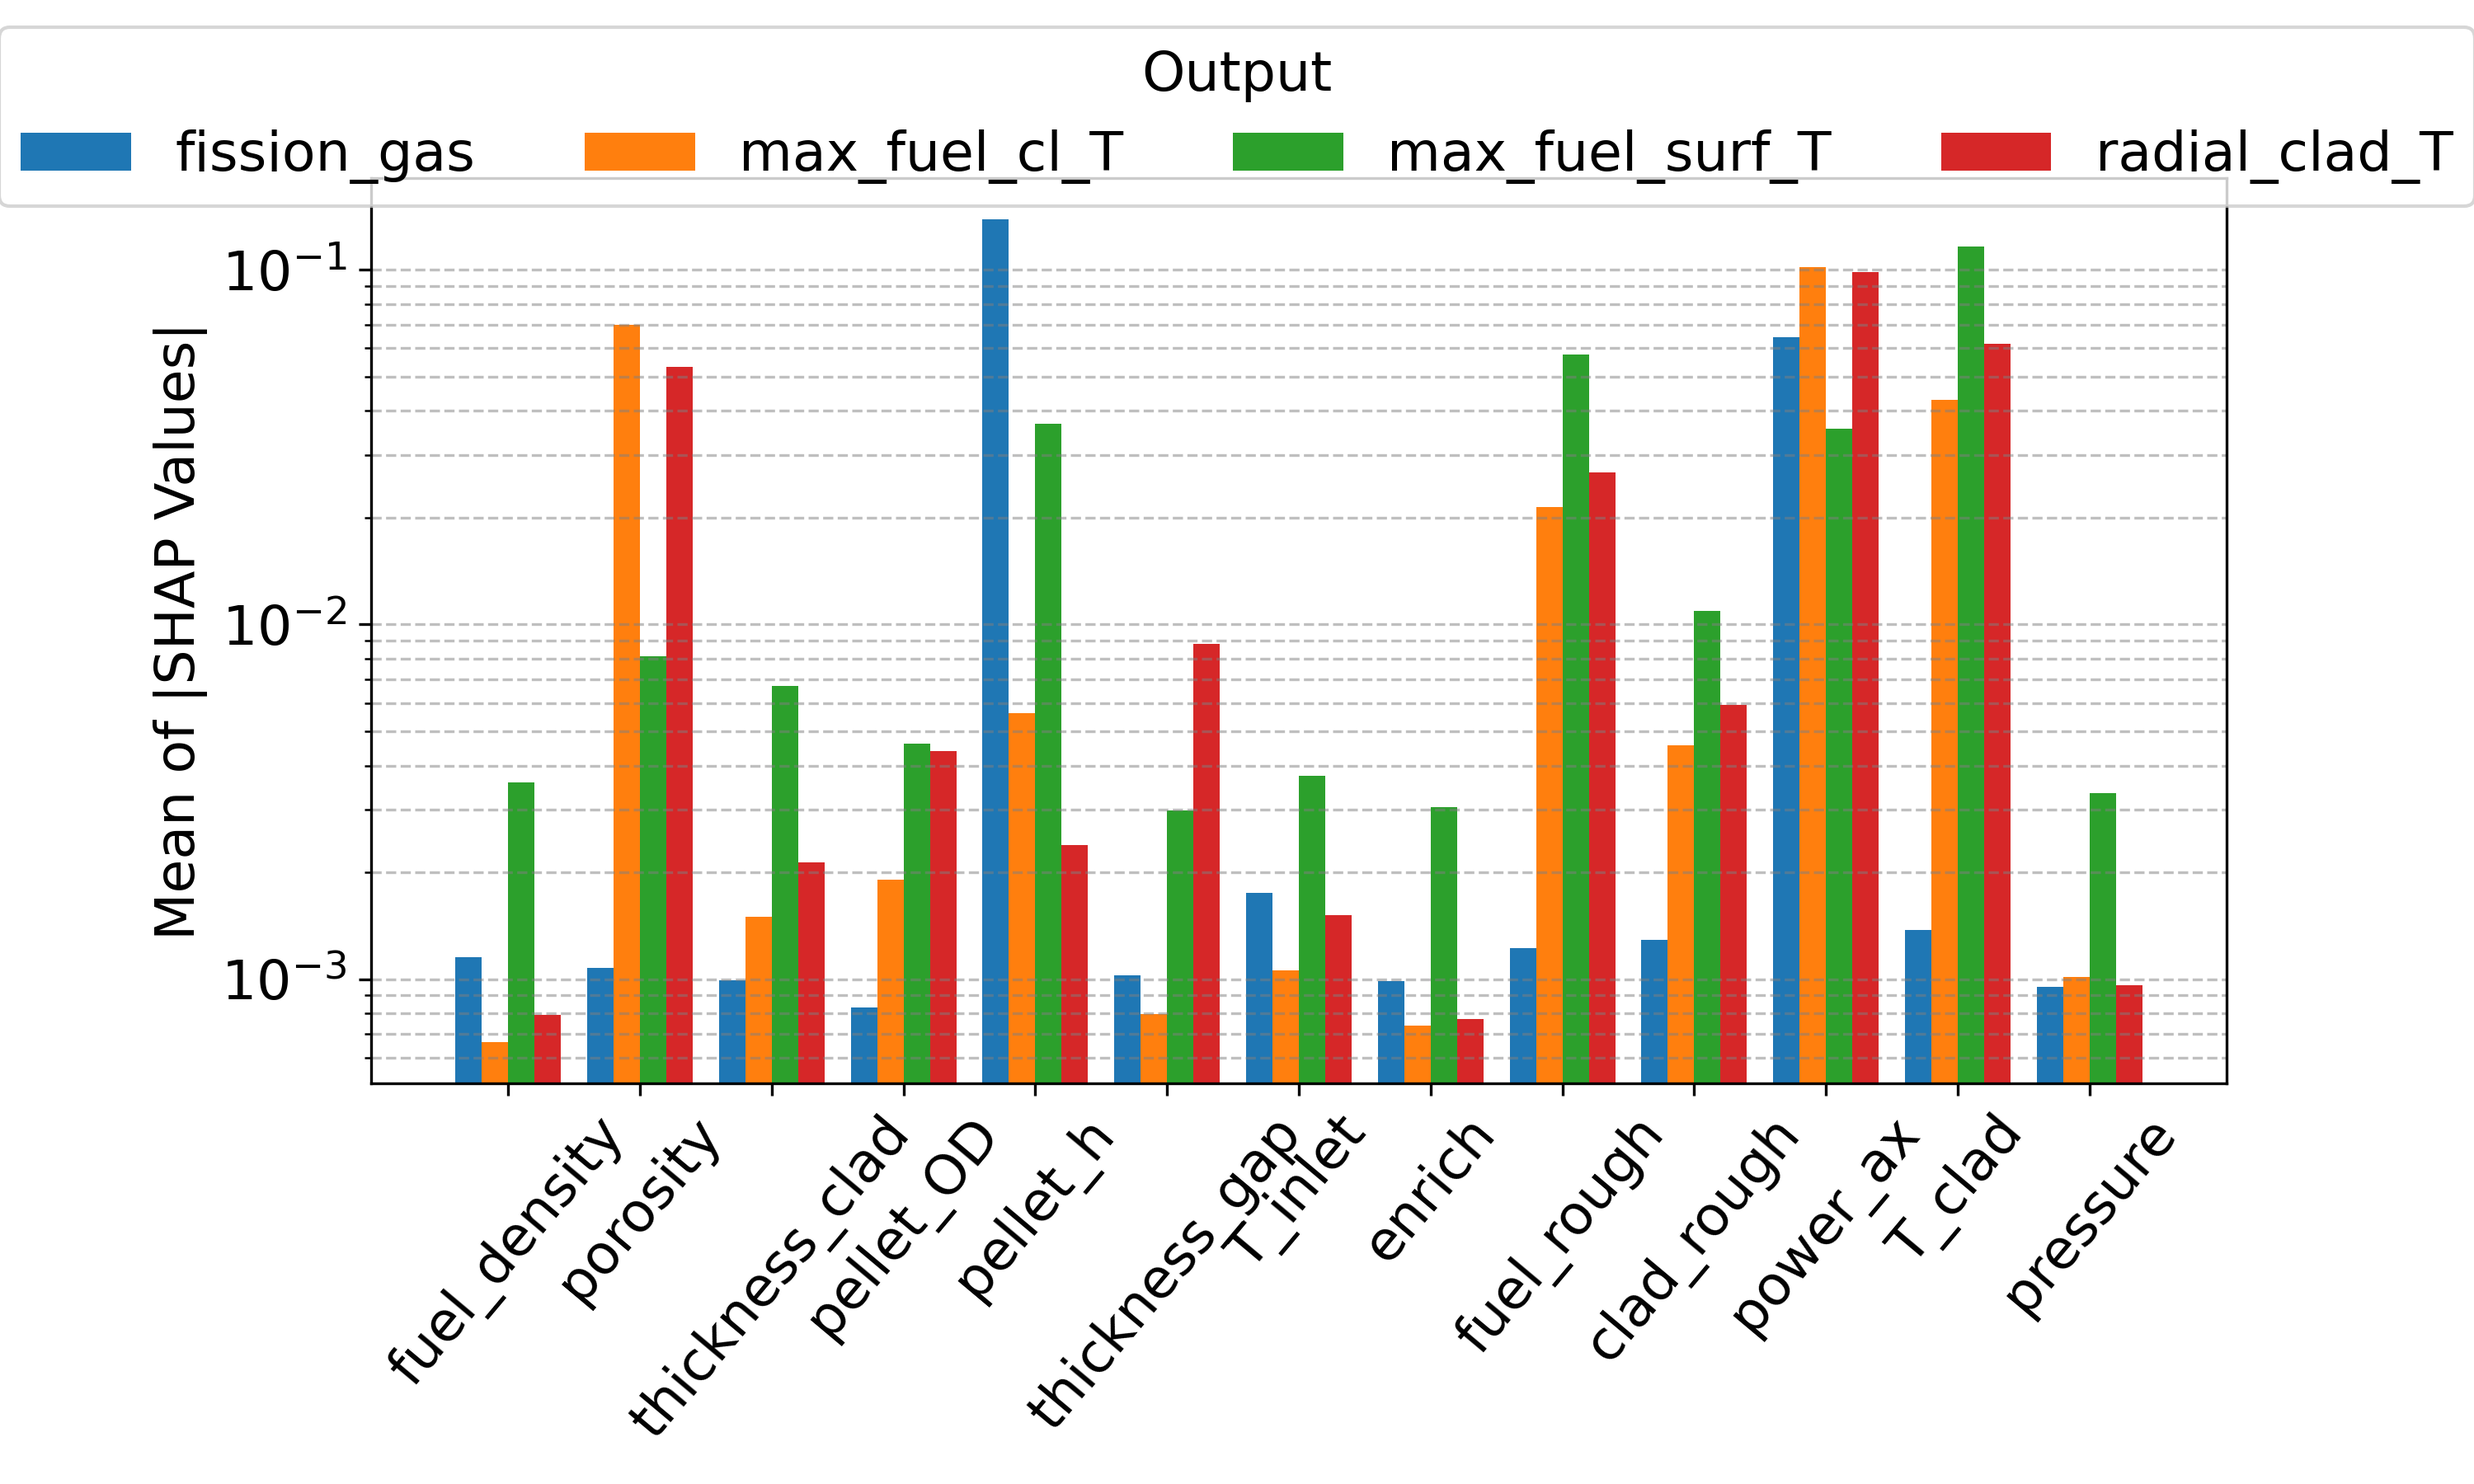
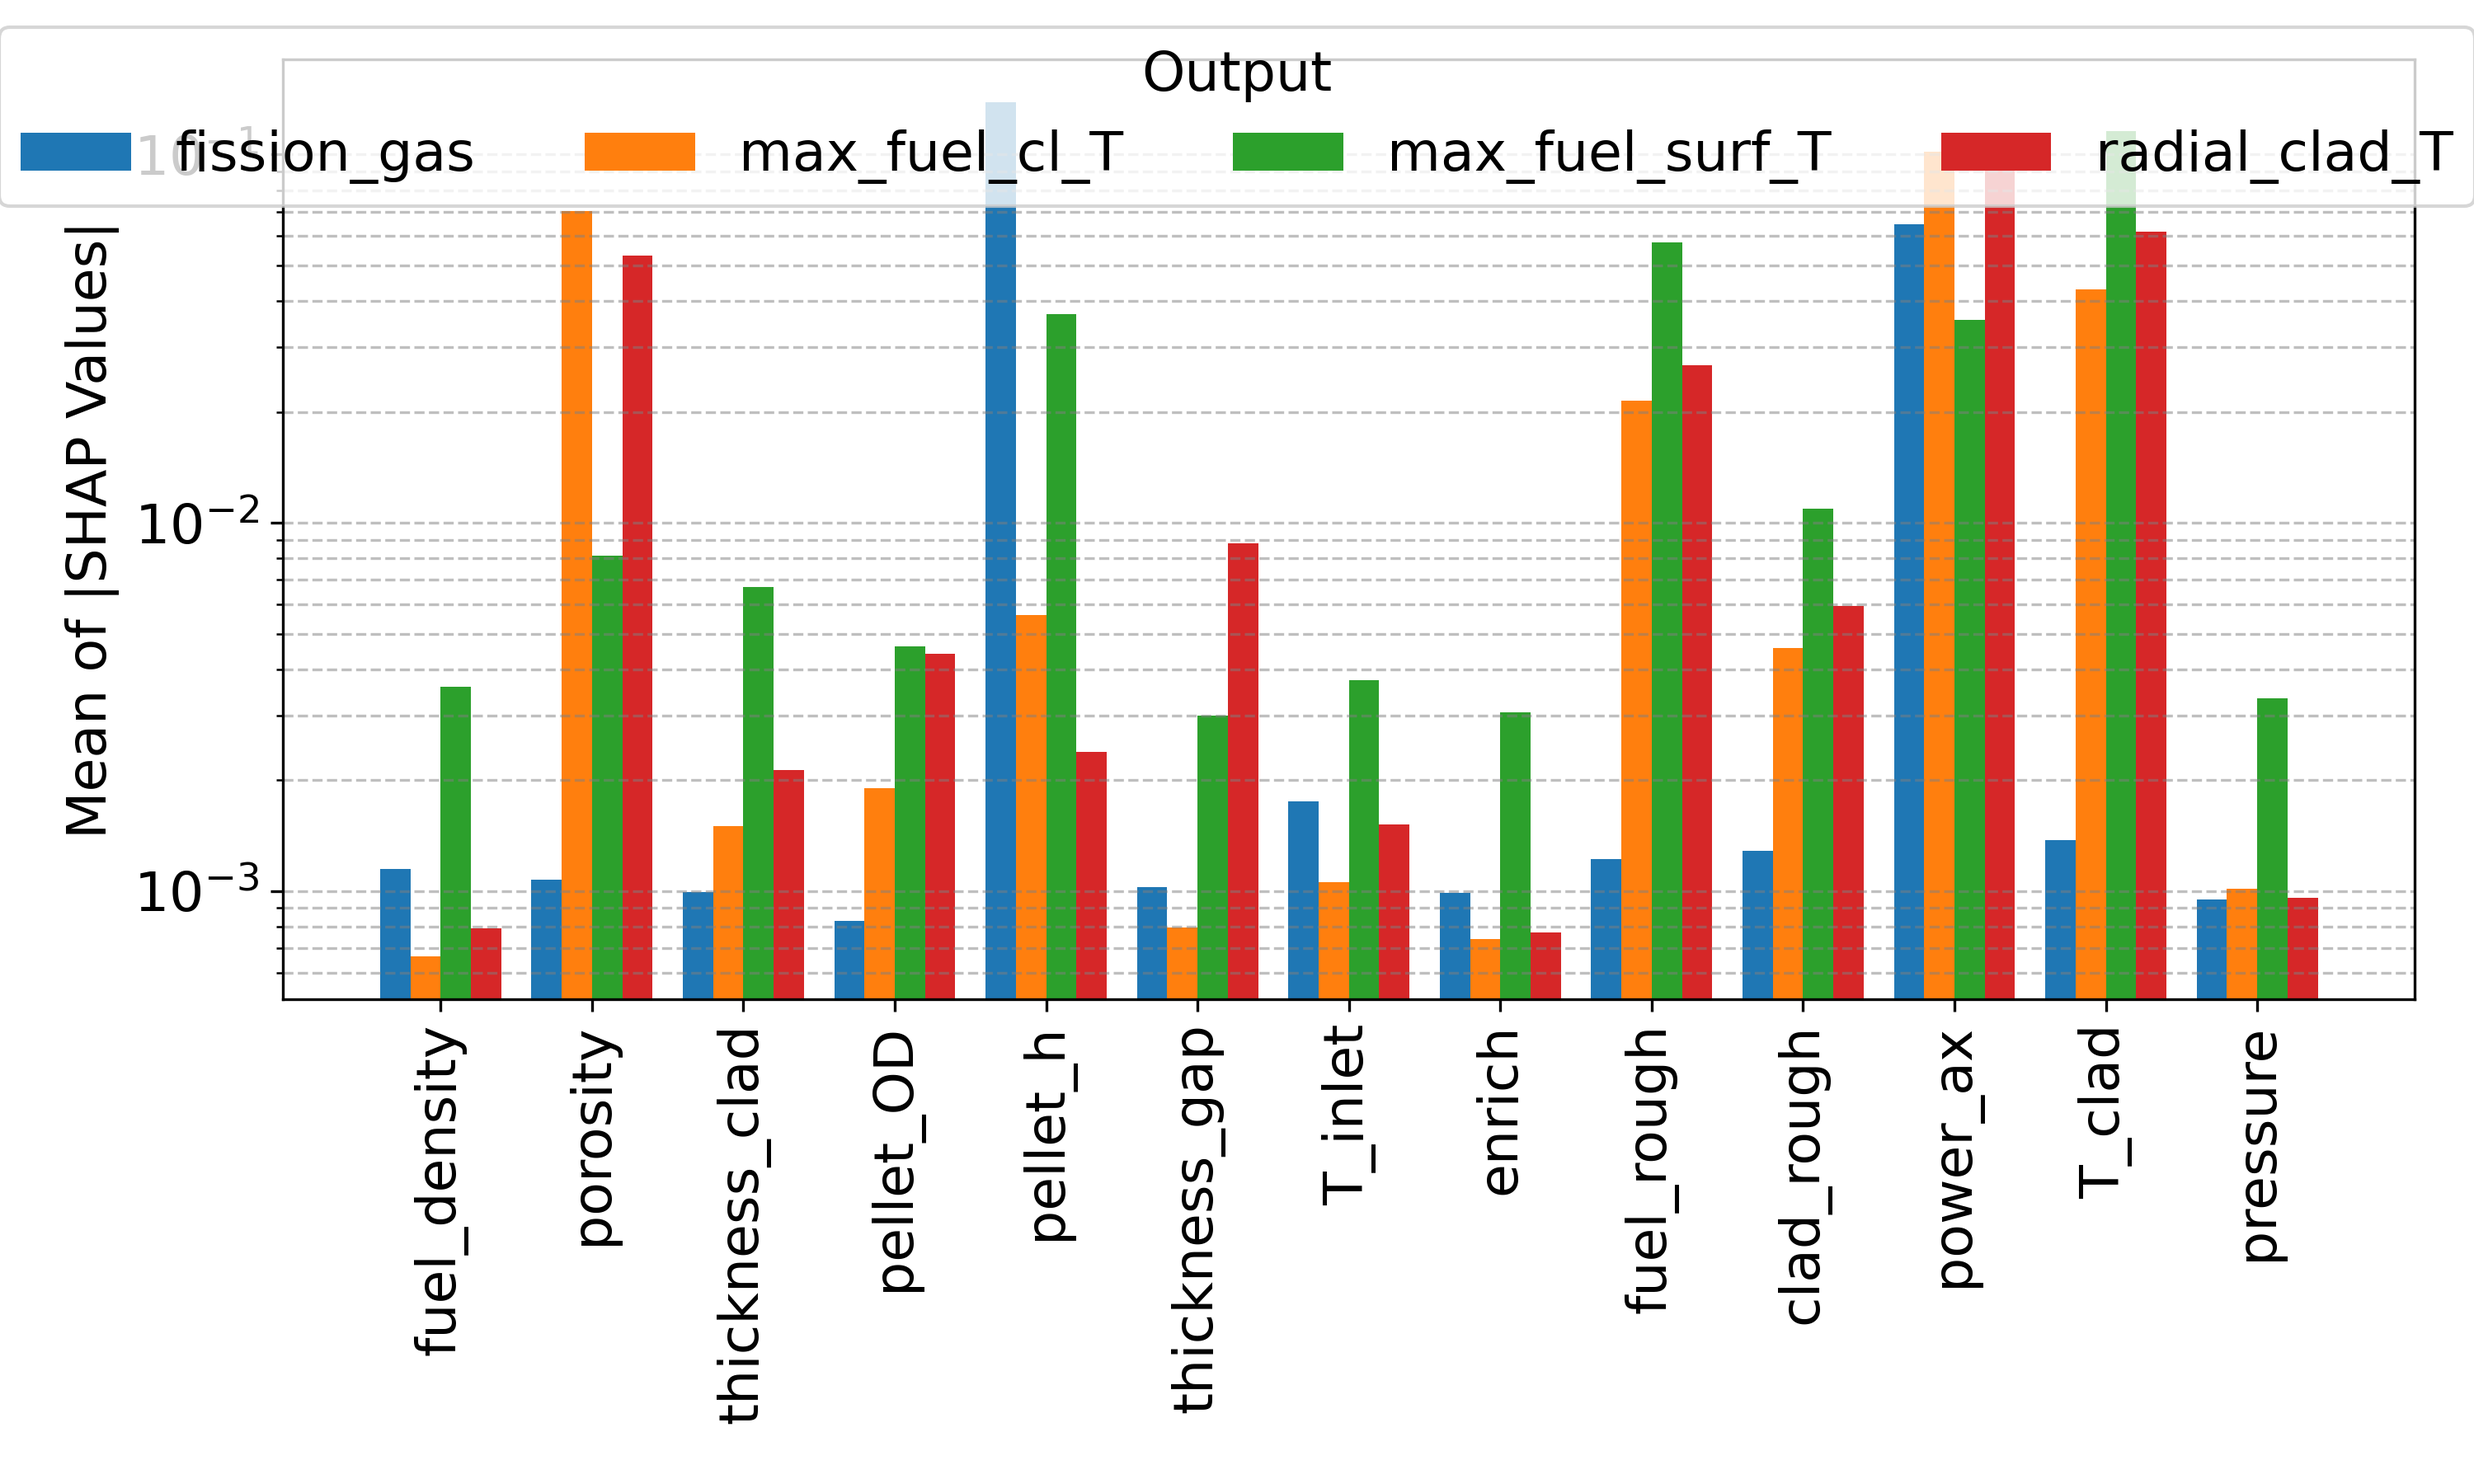
updates from new orleans

diff --git a/wilcoxon.py b/wilcoxon.py
@@ -3,14 +3,17 @@ from scipy.stats import wilcoxon
 import pickle
 import pandas as pd
 
-def get_wilcoxon(scores1, scores2, metric, alpha, path):
+def get_wilcoxon(scores1, scores2, metric, alpha, path, type=None):
     results = {}
     for case, output_dict in scores1.items():
         results[case] = []
+        std_dict = {}
         for output in output_dict.keys():
             statistic, p_value = wilcoxon(scores1[case][output][metric], scores2[case][output][metric], alternative='two-sided')
-            print(statistic, p_value)
-
+            merged = np.array([scores1[case][output][metric], scores2[case][output][metric]])
+            std = np.std(merged, axis=0)
+            std_dict[output] = std
+            
             # check if a significant difference is found
             if p_value < alpha:
                 avg1 = np.mean(scores1[case][output][metric])
@@ -18,24 +21,22 @@ def get_wilcoxon(scores1, scores2, metric, alpha, path):
                 # if scores1 is better than scores2, yield positive
                 if metric == 'R2' and avg1 > avg2:
                     results[case].append('+')
-                    print('+')
                 elif metric == 'R2' and avg1 < avg2: # FNN is better
                     results[case].append('-')
-                    print('-')
                 elif metric == 'MAE' and avg1 < avg2: # reverse the order for error
                     results[case].append('+')
-                    print('+')
                 elif metric == 'MAE' and avg1 > avg2:
                     results[case].append('-')
-                    print('-')
             else: # no difference between methods
                 results[case].append('0')
+        std_df = pd.DataFrame(std_dict)
+        print( std_df.to_latex(caption=f'Standard deviations for {type} KAN vs FNN on {case} using {metric} as metric.', label=f'{case}_{metric}'))
 
     for case, vals in results.items():
         results[case] = ''.join(vals)
 
     df = pd.DataFrame(results, index=['Wilcoxon'])
-    print(df)
+    # print(df)
     with open(path, 'w') as file:
         file.write(df.to_latex())
     return df
@@ -44,25 +45,26 @@ if __name__=="__main__":
     with open(snakemake.input.kan_scores, "rb") as f1:
         kan_dict = pickle.load(f1)
 
-    print(kan_dict)
-
     with open(snakemake.input.kan_sym_scores, "rb") as f2:
         kan_sym_dict = pickle.load(f2)
+
     with open(snakemake.input.fnn_scores, "rb") as f3:
         fnn_dict = pickle.load(f3)
-    print(fnn_dict)
+
 
     kan_results = get_wilcoxon(
         scores1 = kan_dict,
         scores2 = fnn_dict,
         metric = snakemake.params.metric,
         alpha = snakemake.params.alpha,
-        path = snakemake.output.kan_wilcoxon
+        path = snakemake.output.kan_wilcoxon,
+        type = 'Spline'
     )
     kan_sym_results = get_wilcoxon(
         scores1 = kan_sym_dict,
         scores2 = fnn_dict,
         metric = snakemake.params.metric,
         alpha = snakemake.params.alpha,
-        path = snakemake.output.kan_sym_wilcoxon
+        path = snakemake.output.kan_sym_wilcoxon,
+        type = 'Symbolic'
     )

diff --git a/fnn.py b/fnn.py
@@ -328,7 +328,7 @@ if __name__=="__main__":
     shap_path_dict = {
         # 'chf': 'shap-values/CHF_fnn_2025-03-18.pkl', 
         # 'bwr': 'shap-values/BWR_fnn_2025-03-18.pkl', 
-        # 'fp': 'shap-values/FP_fnn_2025-04-03.pkl', 
+        'fp': 'shap-values/FP_fnn_2025-04-03.pkl', 
         # 'heat': 'shap-values/HEAT_fnn_2025-03-18.pkl', 
         # 'htgr': 'shap-values/HTGR_fnn_2025-04-03.pkl', 
         # 'mitr': 'shap-values/MITR_fnn_2025-03-18.pkl', 
@@ -336,28 +336,29 @@ if __name__=="__main__":
         # 'xs': 'shap-values/XS_fnn_2025-04-03.pkl', 
         # 'mitr_a': 'shap-values/MITR_A_fnn_2025-03-18.pkl', 
         # 'mitr_b': 'shap-values/MITR_B_fnn_2025-03-18.pkl', 
-        'mitr_c': 'shap-values/MITR_C_fnn_2025-03-18.pkl'
+        # 'mitr_c': 'shap-values/MITR_C_fnn_2025-03-18.pkl'
         }
 
     # # STEP 1: train FNN models and get metrics
-    for case, file, model_path, y_pred_file, y_test_file in zip(snakemake.params.d_list, snakemake.input.datasets, snakemake.output.model_path, snakemake.output.y_preds, snakemake.output.y_tests):
-        print(f'NOW RUNNING FNN FOR... {case}')
-        with open(file, 'rb') as f:
-            dataset = pickle.load(f)
-        model, y_preds, y_tests = fit_fnn(dataset, pymaise_params[case], device=device, save_as=f'{case}__{str(dt.date.today())}')
-        torch.save(model.state_dict(), model_path)
-        with open(y_pred_file, "wb") as file1:
-            pickle.dump(y_preds, file1)
-        with open(y_test_file, "wb") as file2:
-                pickle.dump(y_tests, file2)
+
+    # for case, file, model_path, y_pred_file, y_test_file in zip(snakemake.params.d_list, snakemake.input.datasets, snakemake.output.model_path, snakemake.output.y_preds, snakemake.output.y_tests):
+    #     print(f'NOW RUNNING FNN FOR... {case}')
+    #     with open(file, 'rb') as f:
+    #         dataset = pickle.load(f)
+    #     model, y_preds, y_tests = fit_fnn(dataset, pymaise_params[case], device=device, save_as=f'{case}__{str(dt.date.today())}')
+    #     torch.save(model.state_dict(), model_path)
+    #     with open(y_pred_file, "wb") as file1:
+    #         pickle.dump(y_preds, file1)
+    #     with open(y_test_file, "wb") as file2:
+    #             pickle.dump(y_tests, file2)
 
     # # STEP 2: get shap values from FNN models, need model path dict from Step 1
     # shap_paths = get_fnn_shap(model_path_dict, pymaise_params, device)
     # print(shap_paths)
 
-    # # STEP 3: plot shap values, need shap path dict from Step 2
-    # for model, path in shap_path_dict.items():
-    #     plot_shap(path, save_as=f'{model}_fnn', type='fnn', width=0.05)
+    # STEP 3: plot shap values, need shap path dict from Step 2
+    for model, path in shap_path_dict.items():
+        plot_shap(path, save_as=f'{model}_fnn', type='fnn', width=0.2)
 
     # # STEP 4 (optional): print shap values and save to csv
     # for model, path in shap_path_dict.items():

diff --git a/explainability.py b/explainability.py
@@ -140,9 +140,9 @@ def plot_shap(path, save_as, type='kan', width=0.2):
     n = len(output_names)
     ax.grid(True, which='both', axis='y', linestyle='--', color='gray', alpha=0.5)
     ax.set_xticks(x_positions + (n-1)*width/2)
-    ax.set_xticklabels(input_names, rotation=50)
+    ax.set_xticklabels(input_names, rotation=90)
     plt.subplots_adjust(bottom=0.27, left=0.15)
-    #plt.tight_layout()
+    plt.tight_layout()
     if not os.path.exists('figures/shap'):
         os.makedirs('figures/shap')
     plt.savefig(f'figures/shap/{save_as}.png', dpi=300)
@@ -203,13 +203,13 @@ if __name__=="__main__":
     }
 
     shap_path_dict = {
-        # 'fp': 'shap-values/FP_kan_2025-04-03.pkl', 
+        'fp': 'shap-values/FP_kan_2025-04-03.pkl', 
         # 'bwr': 'shap-values/BWR_kan_2025-03-18.pkl', 
         # 'heat': 'shap-values/HEAT_kan_2025-03-18.pkl', 
         # 'htgr': 'shap-values/HTGR_kan_2025-04-03.pkl', 
         # 'mitr_a': 'shap-values/MITR_A_kan_2025-03-18.pkl', 
         # 'mitr_b': 'shap-values/MITR_B_kan_2025-03-18.pkl', 
-        'mitr_c': 'shap-values/MITR_C_kan_2025-03-18.pkl', 
+        # 'mitr_c': 'shap-values/MITR_C_kan_2025-03-18.pkl', 
         # 'mitr': 'shap-values/MITR_kan_2025-03-18.pkl', 
         # 'chf': 'shap-values/CHF_kan_2025-03-18.pkl', 
         # 'rea': 'shap-values/REA_kan_2025-03-18.pkl', 
@@ -222,7 +222,7 @@ if __name__=="__main__":
 
     # uncomment to make shap kan plots
     for model, path in shap_path_dict.items():
-        plot_shap(path, save_as=f'{model}_kan', type='kan', width=0.05)
+        plot_shap(path, save_as=f'{model}_kan', type='kan', width=0.2)
 
     ## uncomment to print shap values
     # for model, path in shap_path_dict.items():

diff --git a/results/stats/kan_sym_wilcoxon_R2.tex b/results/stats/kan_sym_wilcoxon_R2.tex
@@ -1,8 +1,7 @@
-\caption{Wilcoxon scores for a Symbolic KAN vs. FNN evaluated on $R^2$ across 30 different shuffled train-test splits.}
 \begin{tabular}{lllllllllll}
 \toprule
  & FP & CHF & BWR & MITR_A & MITR_B & MITR_C & XS & HEAT & REA & HTGR \\
 \midrule
-Wilcoxon & ++++ & 0 & 0000+ & 0 & +0++00 & 000000000000000 & 0 & + & 000+ & 0000 \\
+$R^2$ Symbolic & ---- & - & ----- & + & ------ & --------------- & - & - & ---- & ++++ \\
 \bottomrule
 \end{tabular}

diff --git a/results/stats/kan_wilcoxon_R2.tex b/results/stats/kan_wilcoxon_R2.tex
@@ -1,8 +1,7 @@
-\caption{Wilcoxon scores for a Spline KAN vs. FNN evaluated on $R^2$ across 30 different shuffled train-test splits.}
 \begin{tabular}{lllllllllll}
 \toprule
  & FP & CHF & BWR & MITR_A & MITR_B & MITR_C & XS & HEAT & REA & HTGR \\
 \midrule
-Wilcoxon & ++++ & 0 & +00+0 & 0 & +0+++0 & 000000000000000 & 0 & 0 & 000+ & 0000 \\
+$R^2$ Spline & ---- & - & +++-+ & + & ------ & --------------- & 0 & + & -0-+ & ++++ \\
 \bottomrule
 \end{tabular}

diff --git a/results/stats/kan_wilcoxon_MAE.tex b/results/stats/kan_wilcoxon_MAE.tex
@@ -1,8 +1,7 @@
-\caption{Wilcoxon scores for a Spline KAN vs. FNN evaluated on MAE across 30 different shuffled train-test splits.}
 \begin{tabular}{lllllllllll}
 \toprule
  & FP & CHF & BWR & MITR_A & MITR_B & MITR_C & XS & HEAT & REA & HTGR \\
 \midrule
-Wilcoxon & ++++ & + & 0000+ & 0 & +++++0 & 000000000000000 & + & + & 0000 & 0000 \\
+MAE Spline & ---- & - & -++-- & + & ------ & --------------- & + & + & ---+ & ++++ \\
 \bottomrule
 \end{tabular}

diff --git a/results/stats/kan_sym_wilcoxon_MAE.tex b/results/stats/kan_sym_wilcoxon_MAE.tex
@@ -2,7 +2,6 @@
 \toprule
  & FP & CHF & BWR & MITR_A & MITR_B & MITR_C & XS & HEAT & REA & HTGR \\
 \midrule
-Wilcoxon & +++0 & 0 & 00000 & 0 & ++++00 & 000000000000000 & 0 & + & 0000 & 0000 \\
+MAE Symbolic & ---- & - & ----- & + & ------ & --------------- & - & - & ---0 & ++++ \\
 \bottomrule
 \end{tabular}
-\caption{Wilcoxon scores for a Symbolic KAN vs. FNN evaluated on MAE across 30 different shuffled train-test splits.}
